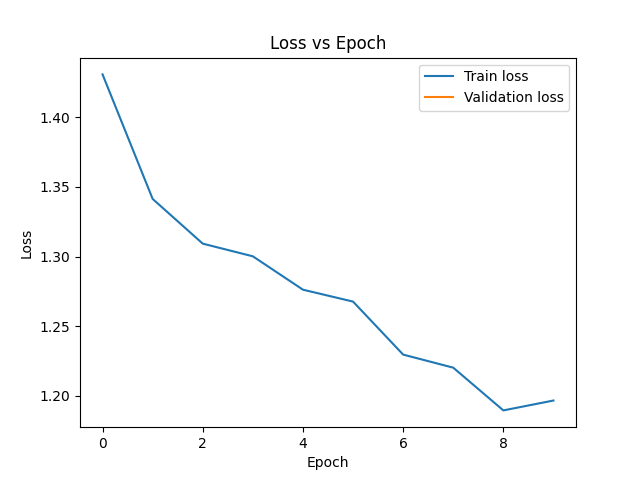
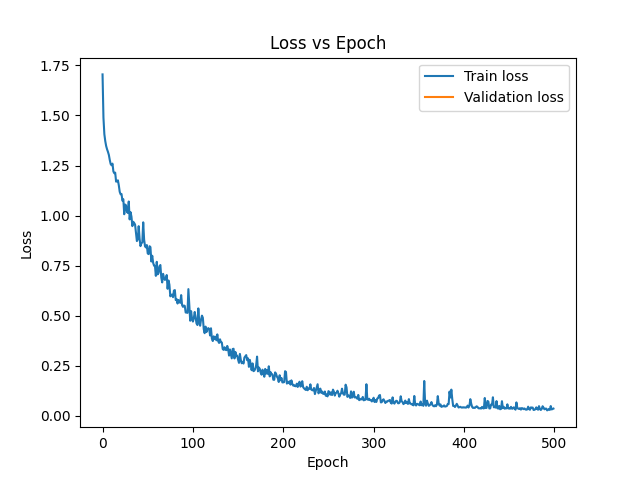
Implemented graph-seq transformer

diff --git a/compiler2_service/model/transformer/graph_encoder/train_graphormer_full.py b/compiler2_service/model/transformer/graph_encoder/train_graphormer_full.py
@@ -1,4 +1,4 @@
-# Initial version of the code is copied from https://towardsdatascience.com/a-detailed-guide-to-pytorchs-nn-transformer-module-c80afbc9ffb1
+# python ./compiler2_service/model/transformer/graph_encoder/train_graphormer_full.py
 
 
 import torch
@@ -9,9 +9,8 @@ import matplotlib.pyplot as plt
 from pathlib import Path
 
 # from graphormer import GraphormerEncoder
-from dgl_dataset import GraphormerDGLDataset
+from dgl_dataset import GraphormerDGLDataset, SOS_token, EOS_token
 from graphormer_graph_encoder import GraphormerGraphEncoder
-
 
 import torch
 import torch.nn as nn
@@ -189,74 +188,6 @@ class Transformer(nn.Module):
         return (matrix == pad_token)
 
 
-def generate_random_data(n):
-    SOS_token = np.array([2])
-    EOS_token = np.array([3])
-    length = 4
-
-    data = []
-
-    # 1,1,1,1,1,1 -> 1,1,1,1,1
-    for i in range(n // 3):
-        X = np.concatenate((SOS_token, np.ones(length), EOS_token))
-        y = np.concatenate((SOS_token, np.ones(length), EOS_token))
-        data.append([X, y])
-
-    # 0,0,0,0 -> 0,0,0,0
-    for i in range(n // 3):
-        X = np.concatenate((SOS_token, np.zeros(length), EOS_token))
-        y = np.concatenate((SOS_token, np.zeros(length), EOS_token))
-        data.append([X, y])
-
-    # 1,0,1,0 -> 1,0,1,0,1
-    for i in range(n // 3):
-        X = np.zeros(length)
-        start = random.randint(0, 1)
-
-        X[start::2] = 1
-
-        y = np.zeros(length)
-        if X[-1] == 0:
-            y[::2] = 1
-        else:
-            y[1::2] = 1
-
-        X = np.concatenate((SOS_token, X, EOS_token))
-        y = np.concatenate((SOS_token, y, EOS_token))
-
-        data.append([X, y])
-
-    np.random.shuffle(data)
-
-    return data
-
-
-def batchify_data(data, batch_size=10, padding=False, padding_token=-1):
-    batches = []
-    for idx in range(0, len(data), batch_size):
-        # We make sure we dont get the last bit if its not batch_size size
-        if idx + batch_size < len(data):
-            # Here you would need to get the max length of the batch,
-            # and normalize the length with the PAD token.
-            if padding:
-                max_batch_length = 0
-
-                # Get longest sentence in batch
-                for seq in data[idx : idx + batch_size]:
-                    if len(seq) > max_batch_length:
-                        max_batch_length = len(seq)
-
-                # Append X padding tokens until it reaches the max length
-                for seq_idx in range(batch_size):
-                    remaining_length = max_bath_length - len(data[idx + seq_idx])
-                    data[idx + seq_idx] += [padding_token] * remaining_length
-
-            batches.append(np.array(data[idx : idx + batch_size]).astype(np.int64))
-
-    print(f"{len(batches)} batches of size {batch_size}")
-
-    return batches
-
 
 def train_loop(model, opt, loss_fn, dataloader):
     model.train()
@@ -274,7 +205,7 @@ def train_loop(model, opt, loss_fn, dataloader):
     pred = model(graphs=dataloader['x'], tgt=y_input, tgt_mask=tgt_mask)
 
     # Permute pred to have batch size first again
-    pred = pred.permute(1, 2, 0)    
+    pred = pred.permute(1, 2, 0)    # Cross-entropy input(N, C, d1) target(N, d1)
     loss = loss_fn(pred, y_expected)
 
     opt.zero_grad()
@@ -334,43 +265,27 @@ def fit(model, opt, loss_fn, train_dataloader, val_dataloader, epochs):
         
     return train_loss_list, validation_loss_list
 
-def predict(model, collated_data, max_length=15, SOS_token=2, EOS_token=3):
+
+def predict(model, graphs, max_length=15):
     model.eval()
-    graphs = collated_data['x']
-    y_input = collated_data['y']
 
+    num_examples = graphs['idx'].size(0)
+    y_input = torch.full((num_examples, 1), SOS_token, dtype=torch.long, device=device)
 
-    sequence_length = y_input.size(1)
-    tgt_mask = model.get_tgt_mask(sequence_length).to(device)
+    for _ in range(max_length):
+        sequence_length = y_input.size(1)
+        tgt_mask = model.get_tgt_mask(sequence_length).to(device)
 
+        pred = model(graphs, y_input, tgt_mask)
+        pred = pred.permute(1, 0, 2).argmax(2)
 
-    pred = model(graphs, y_input, tgt_mask)
+        # Concatenate previous input with predicted best word
+        y_input = torch.cat((y_input, pred[:, -1:]), dim=1)
 
-    for x, y in zip(pred, collated_data['y']): print(x, ' -> ', y)
+    eos = torch.full((num_examples, 1), EOS_token, dtype=torch.long, device=device)
+    y_input =  torch.cat((y_input, eos), dim=1)
 
-
-    # TODO: Figure this out...
-    breakpoint()
-    for x, y in zip(graphs, y_input):
-        for _ in range(max_length):
-            # Get source mask
-            tgt_mask = model.get_tgt_mask(y.size(1)).to(device)
-            
-            # pred = model(x, y, tgt_mask)
-            
-            next_item = pred.topk(1)[1].view(-1)[-1].item() # num with highest probability
-            next_item = torch.tensor([[next_item]], device=device)
-
-            breakpoint()
-
-            # Concatenate previous input with predicted best word
-            y_input = torch.cat((y, next_item), dim=1)
-
-            # Stop if model predicts end of sentence
-            if next_item.view(-1).item() == EOS_token:
-                break
-
-    return y_input.view(-1).tolist()
+    return [ x[:x.index(EOS_token)+1] for x in  y_input.tolist() ]
 
 
 
@@ -379,8 +294,6 @@ if __name__ == "__main__":
 
     dgl_dataset = GraphormerDGLDataset()
 
-
-    # breakpoint()
     model = Transformer(
         num_classes=dgl_dataset.num_classes,
         num_tokens=20, 
@@ -401,7 +314,7 @@ if __name__ == "__main__":
         loss_fn,
         train_dataloader=dgl_dataset.collate(device=device), 
         val_dataloader=None, 
-        epochs=10,
+        epochs=500,
     )
 
     plt.plot(train_loss_list, label = "Train loss")
@@ -413,6 +326,12 @@ if __name__ == "__main__":
     plt.savefig(Path(__file__).parent/'result.png')
 
 
+    collated_data = dgl_dataset.collate(size=6, device=device)
+    y_predicted = predict(model, collated_data['x'])
+
+    for y_pred, y in zip(y_predicted, collated_data['y']):
+        print(f'y_pred: {y_pred} -> y: {y.tolist()}')
+
+
     breakpoint()
-    collated_data = dgl_dataset.collate(size=2, device=device)
-    predict(model, collated_data)
+    print('Done.')

diff --git a/compiler2_service/model/transformer/graph_encoder/dgl_dataset.py b/compiler2_service/model/transformer/graph_encoder/dgl_dataset.py
@@ -23,6 +23,9 @@ import algos
 from copy import copy
 
 
+SOS_token = 0
+EOS_token = 1
+
 
 @torch.jit.script
 def convert_to_single_emb(x, offset: int = 512):
@@ -77,7 +80,7 @@ class GraphormerDGLDataset(Dataset):
             G.ndata['x'] = torch.ones((num_nodes, 3)) # set nodes features
             
             dataset.append(G)
-            labels.append([4, 2, 1, 2, 2, 3]) # 4 LLVM opts, if graph_encoder predict label[0], elif graphormer_full predict one by one
+            labels.append([SOS_token, 2, 3, 10, 3, EOS_token]) # 4 LLVM opts, if graph_encoder predict label[0], elif graphormer_full predict one by one
         
         return dataset, torch.tensor(labels)
 

diff --git a/compiler2_service/model/transformer/torch_transformer_llvm.py b/compiler2_service/model/transformer/torch_transformer_llvm.py
@@ -291,6 +291,7 @@ def predict(model, input_sequence, max_length=15, SOS_token=2, EOS_token=3):
     num_tokens = len(input_sequence[0])
 
     for _ in range(max_length):
+        breakpoint()
         # Get source mask
         tgt_mask = model.get_tgt_mask(y_input.size(1)).to(device)
         
